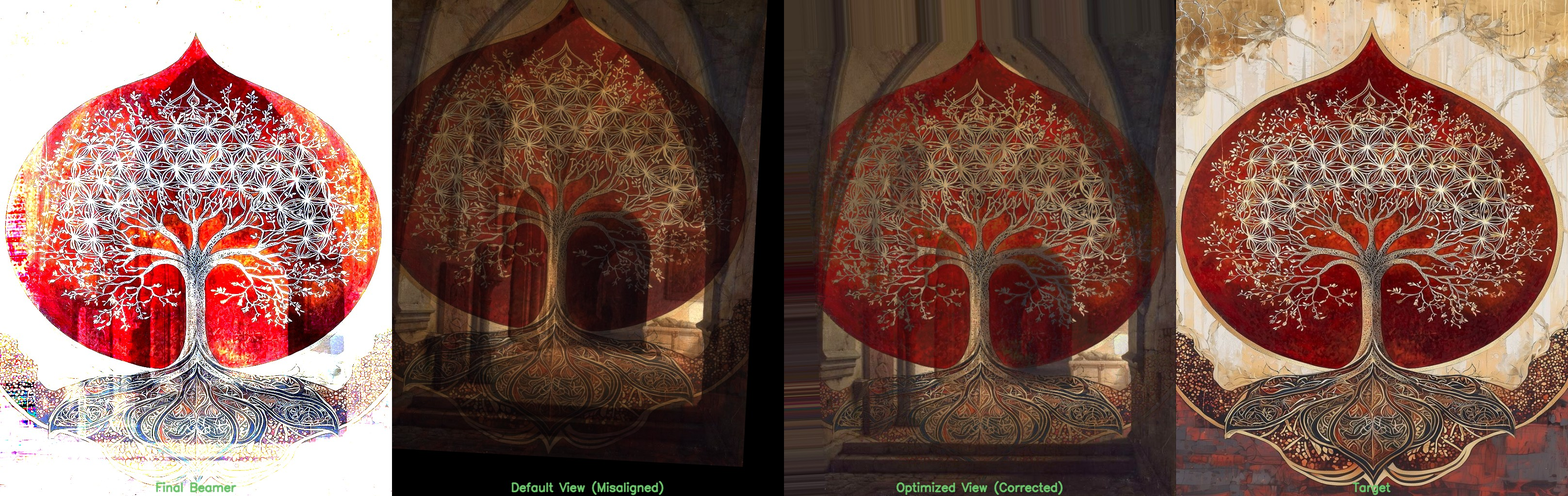
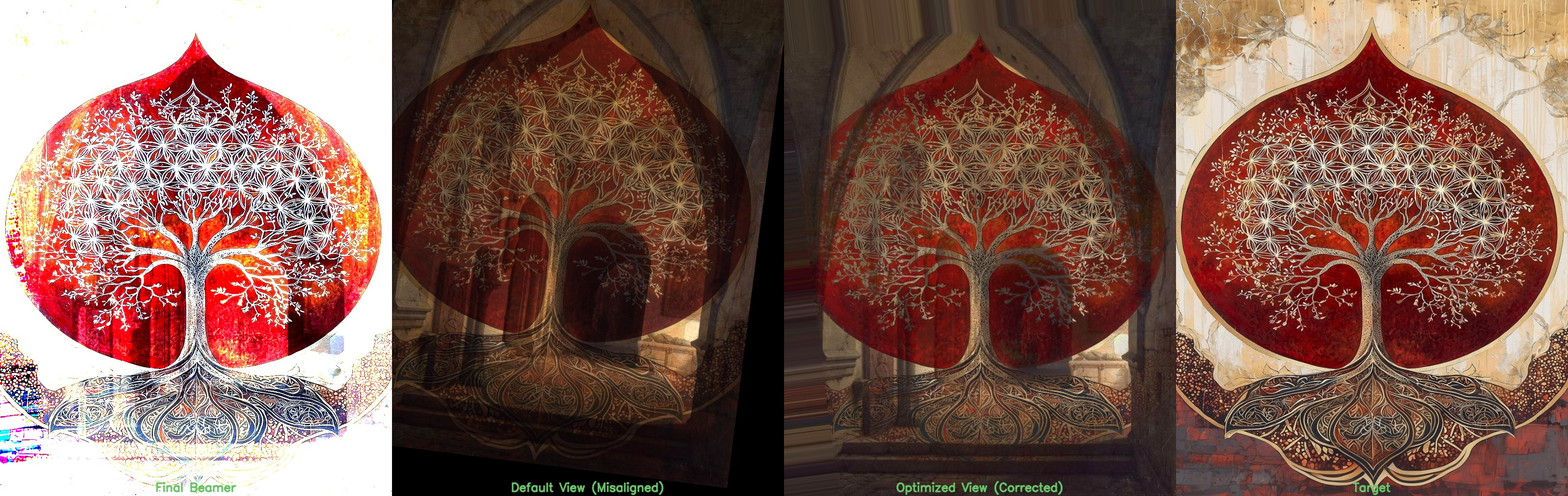
updates

diff --git a/color_correction/opt_loop_advanced.py b/color_correction/opt_loop_advanced.py
@@ -101,8 +101,8 @@ def main(surface_path, target_path):
     initial_sigma_tx = MAX_SHIFT * W / 2.0
     initial_sigma_ty = MAX_SHIFT * H / 2.0
     # Use a single sigma value, CMA-ES adapts per-parameter variances internally
-    initial_sigma0 = np.mean([initial_sigma_theta, initial_sigma_tx, initial_sigma_ty]) * 0.5 # Start with moderate overall variance
-    CMAES_POPULATION_SIZE = 25 # Define population size
+    initial_sigma0 = np.mean([initial_sigma_theta, initial_sigma_tx, initial_sigma_ty]) # Increase initial variance
+    CMAES_POPULATION_SIZE = 50 # Increase population size
     # Define bounds loosely based on config, can be tuned
     warp_bounds = [
         [-MAX_ROTATION * 1.5, -MAX_SHIFT * W * 0.8, -MAX_SHIFT * H * 0.8], # Lower bounds [theta, tx, ty]
